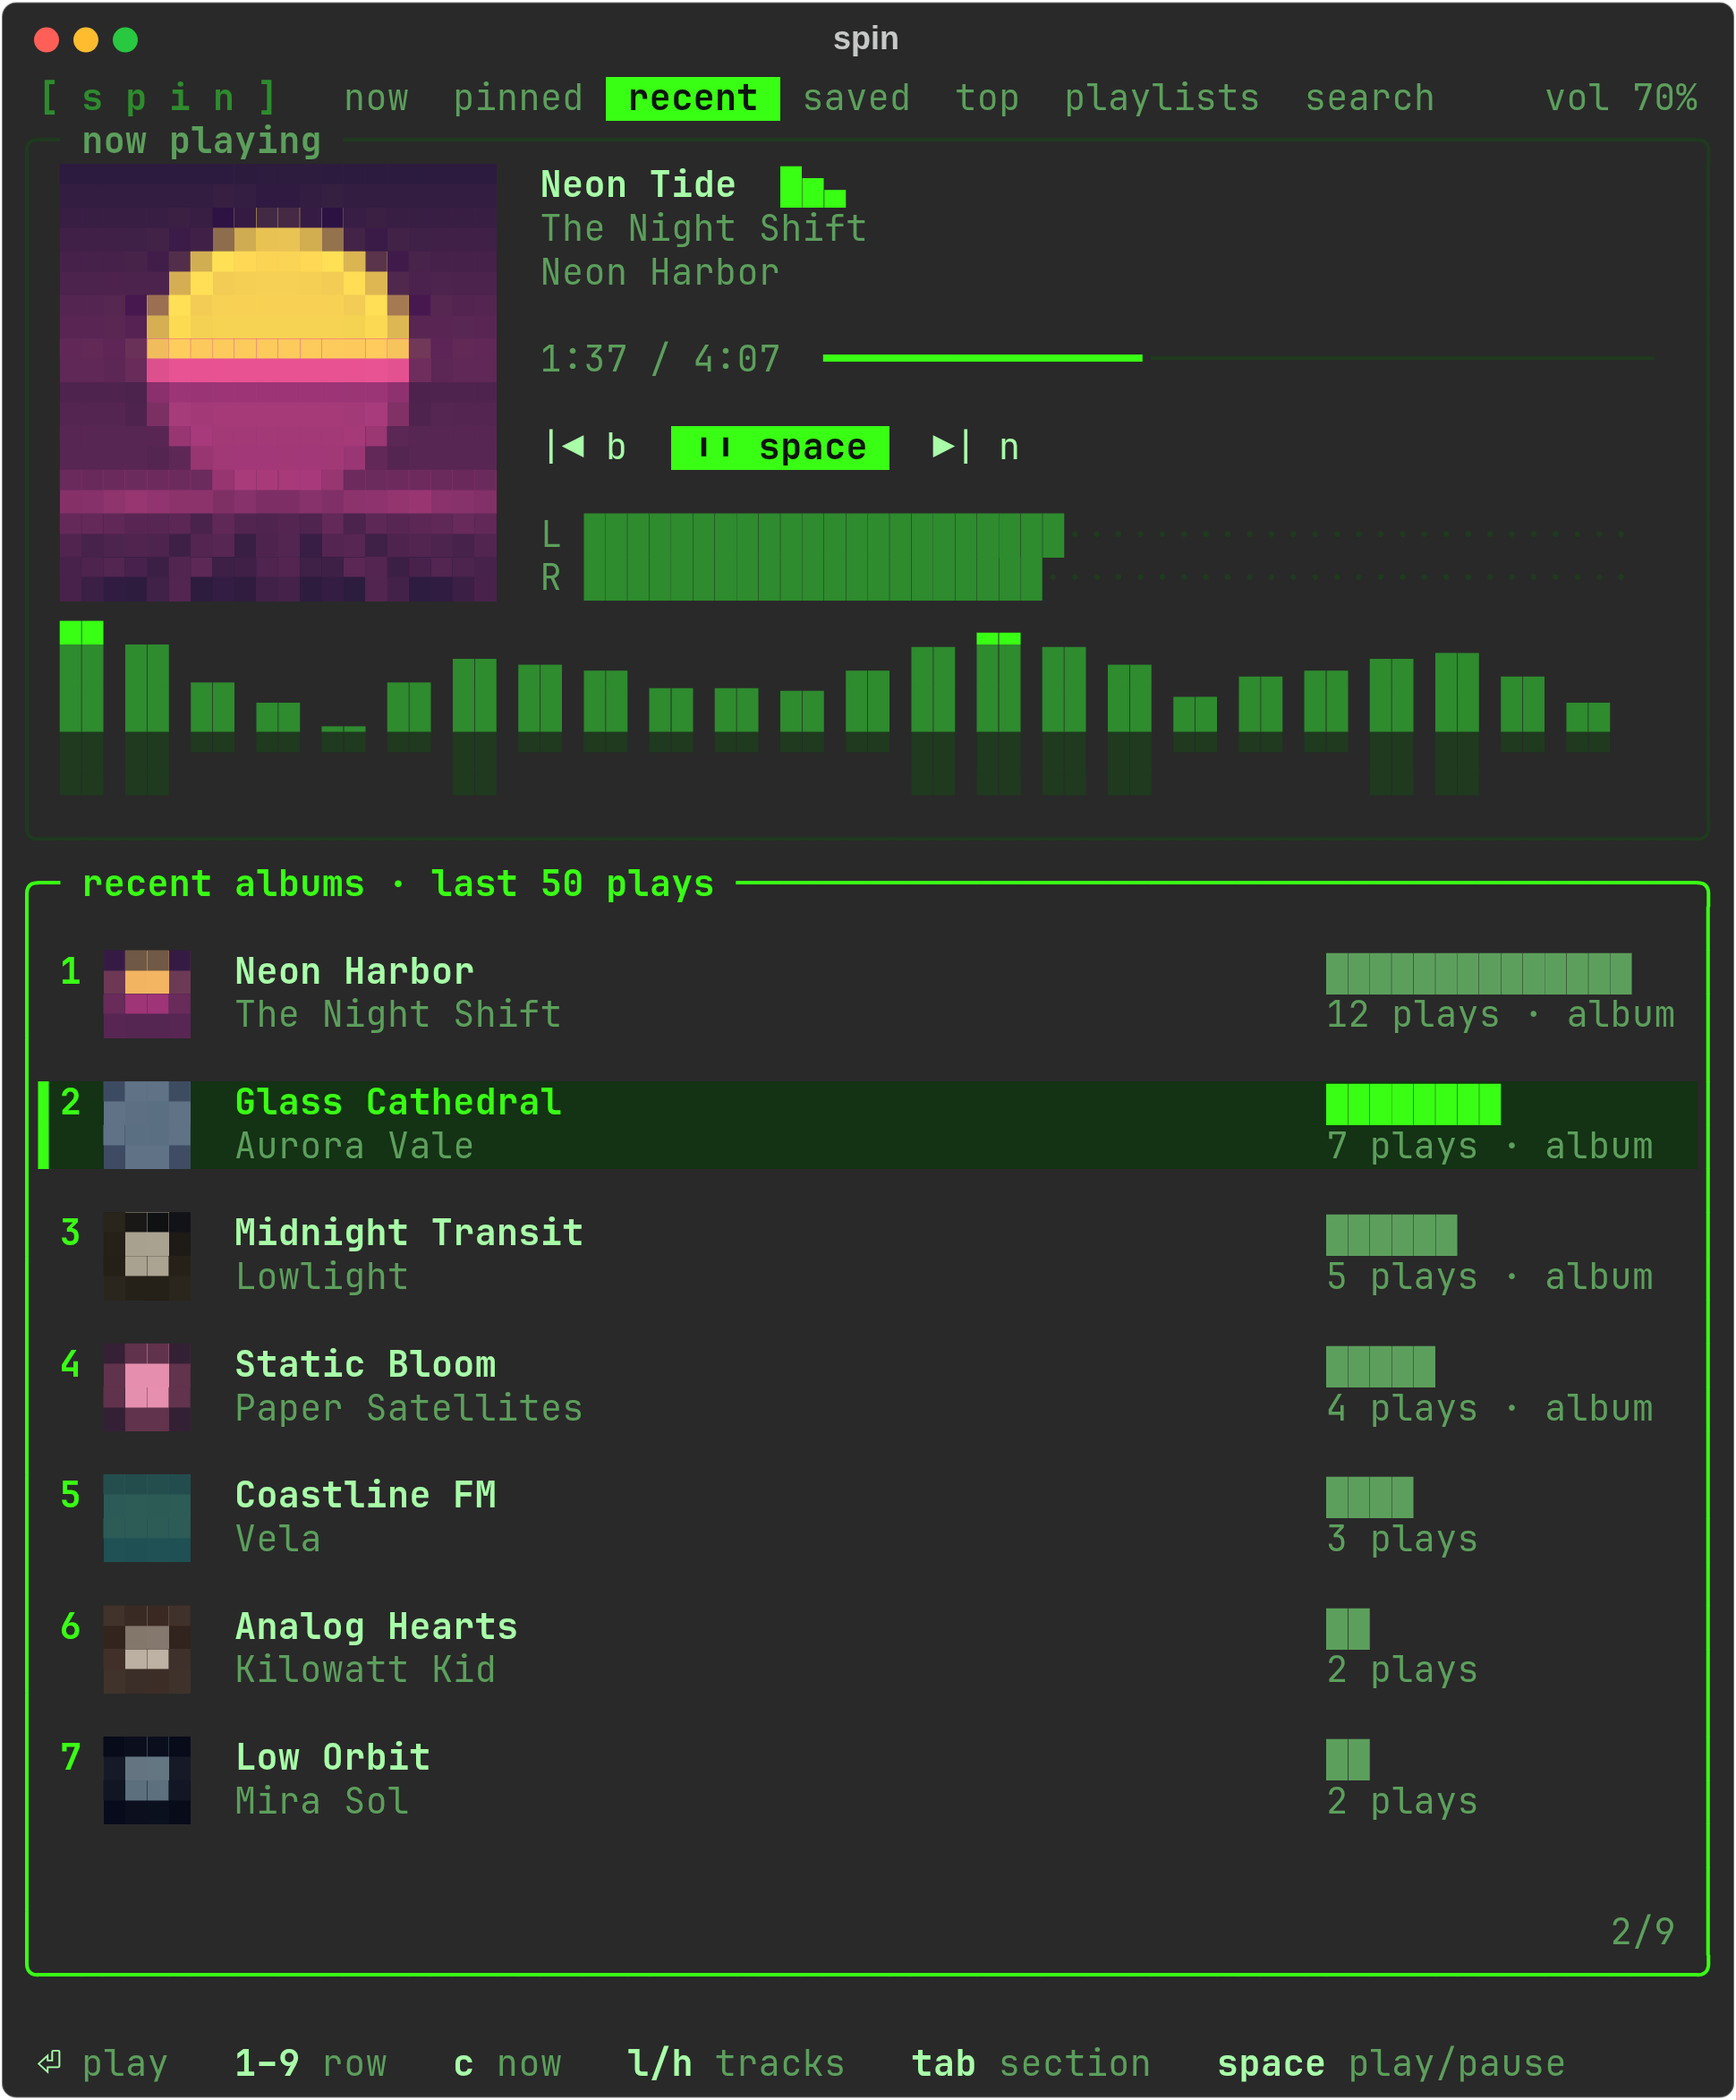
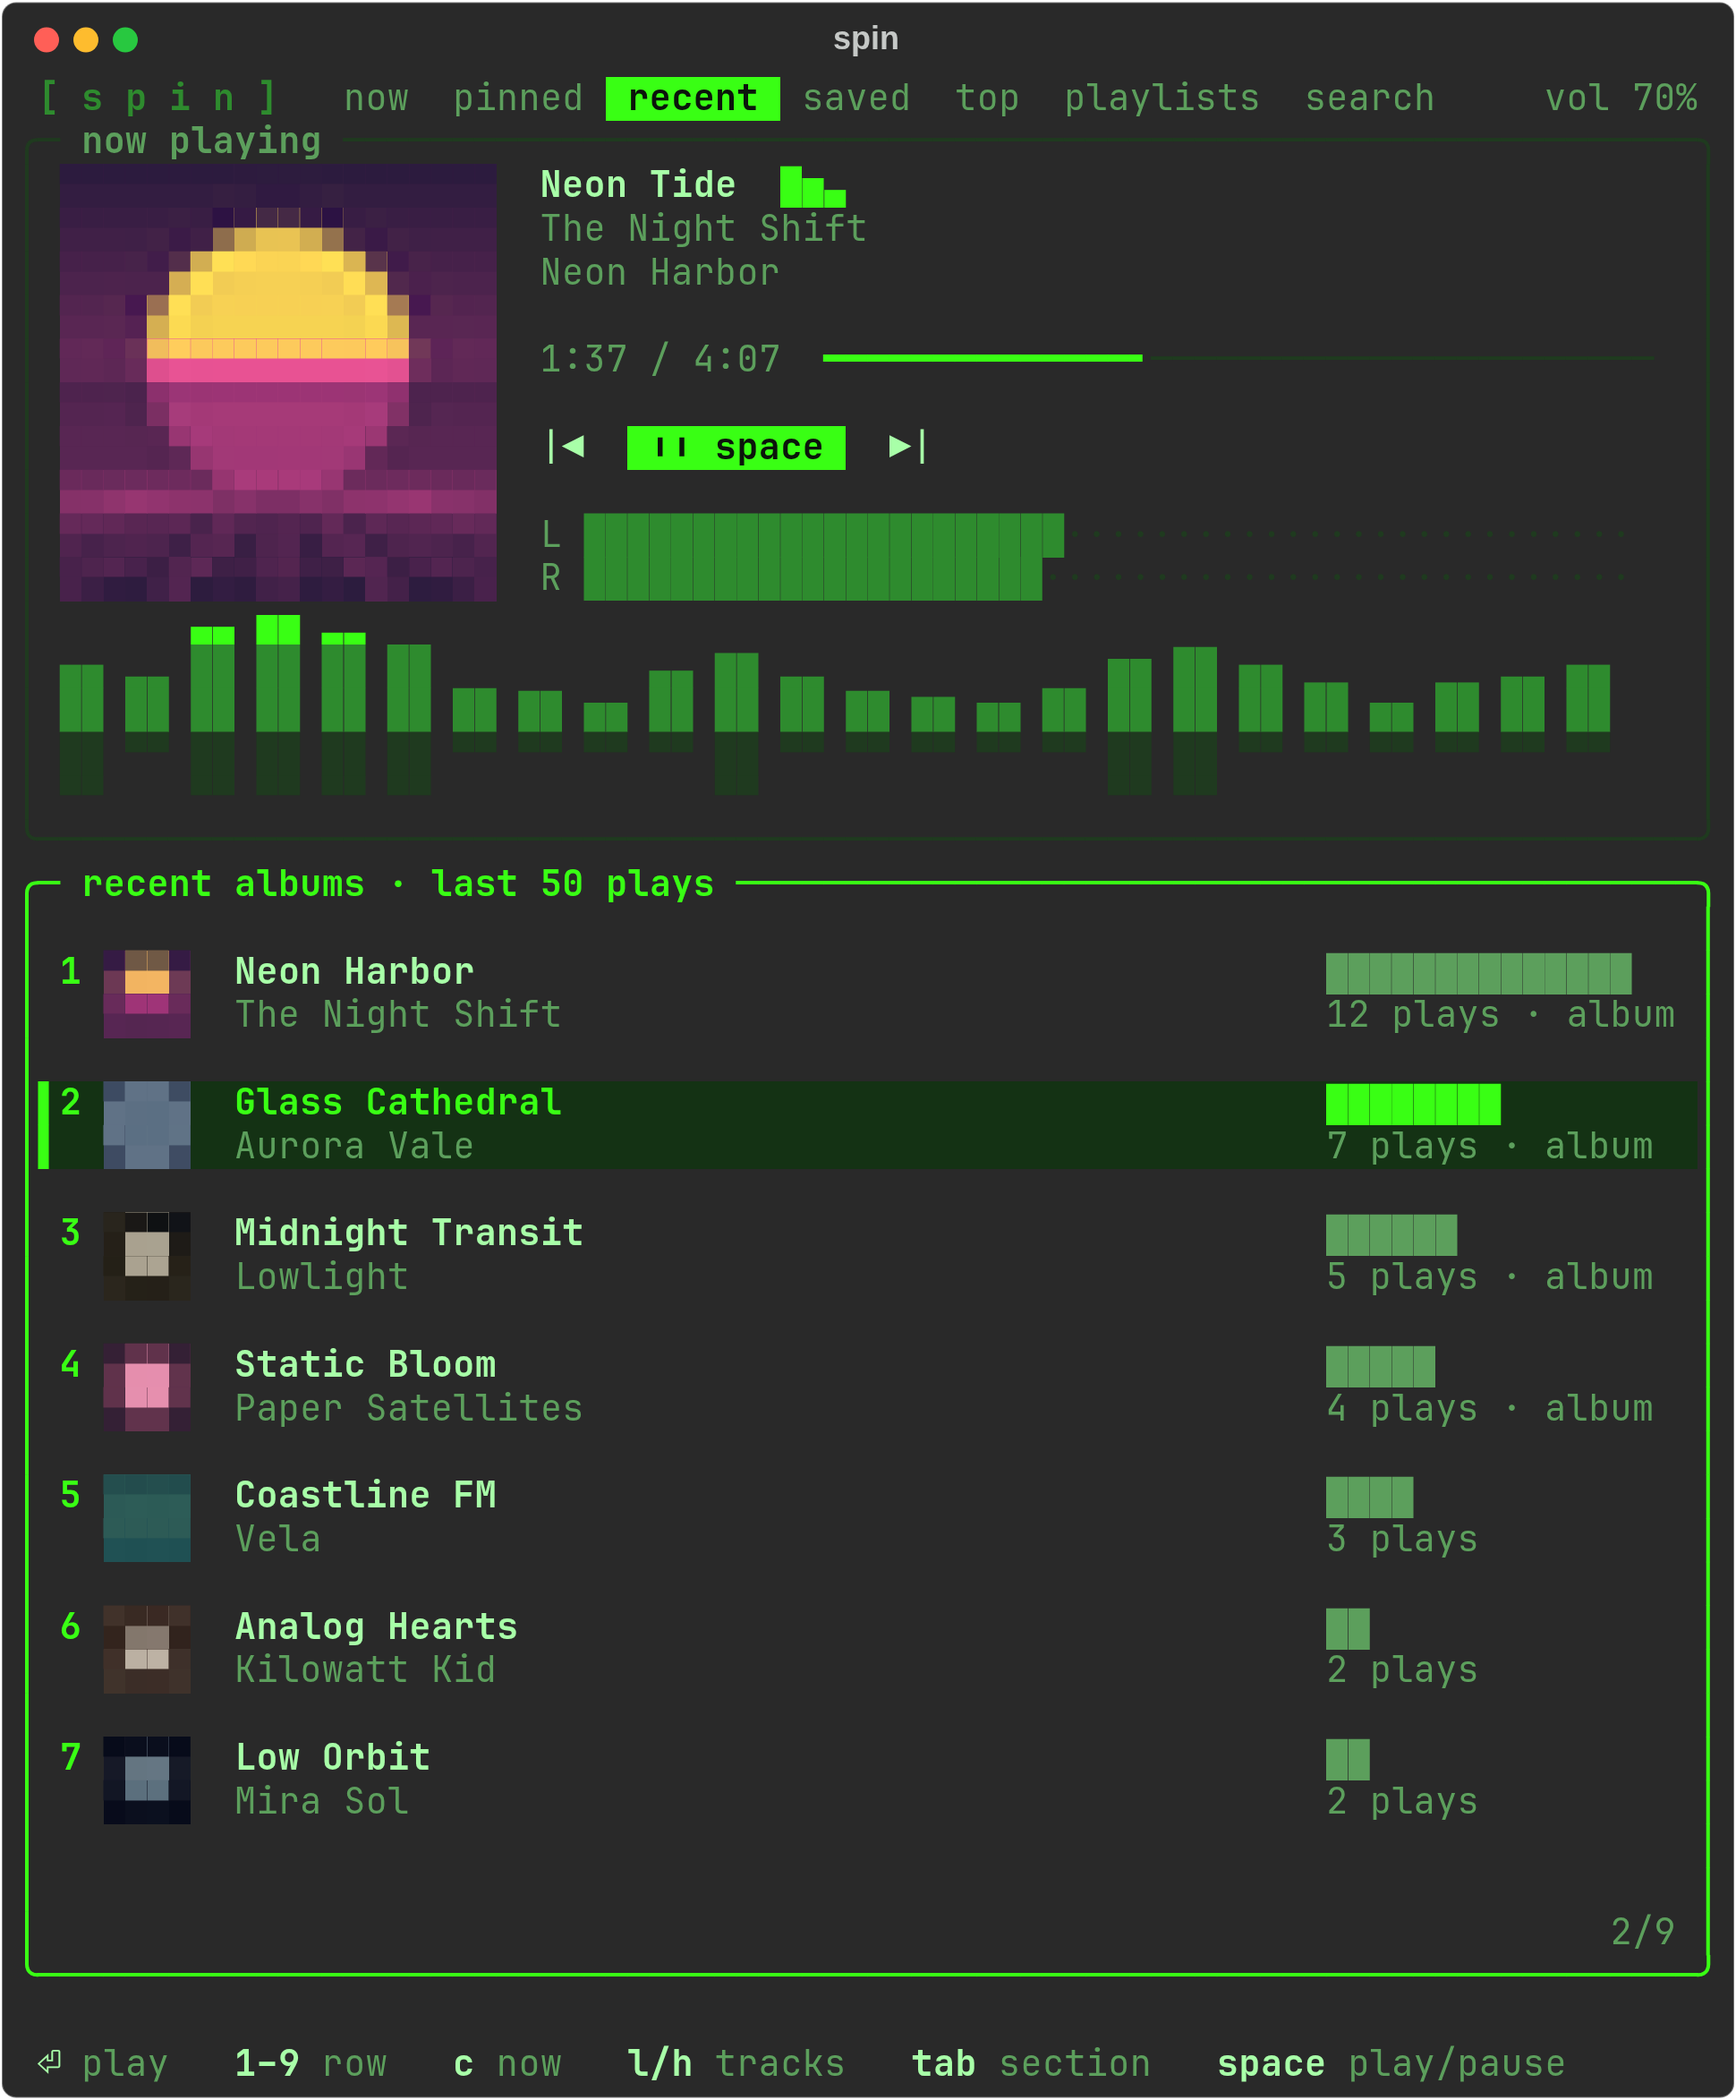
Drop the b/n labels beside the previous and next buttons

diff --git a/spin/ui.py b/spin/ui.py
@@ -123,10 +123,10 @@ def draw(app: "SpinApp", W: int, H: int) -> Grid:
             g.put(x + 3, y, f" {icon} ", P.bg, P.accent, True)
             g.put(x + 8, y, "▶|", P.fg)
             return x + 11
-        g.put(x, y, "|◀ b", P.fg)
-        g.put(x + 6, y, f" {icon} space ", P.bg, P.accent, True)
-        g.put(x + 18, y, "▶| n", P.fg)
-        return x + 24
+        g.put(x, y, "|◀", P.fg)
+        g.put(x + 4, y, f" {icon} space ", P.bg, P.accent, True)
+        g.put(x + 16, y, "▶|", P.fg)
+        return x + 20
 
     def hints(y, items):
         if app.status_text():
